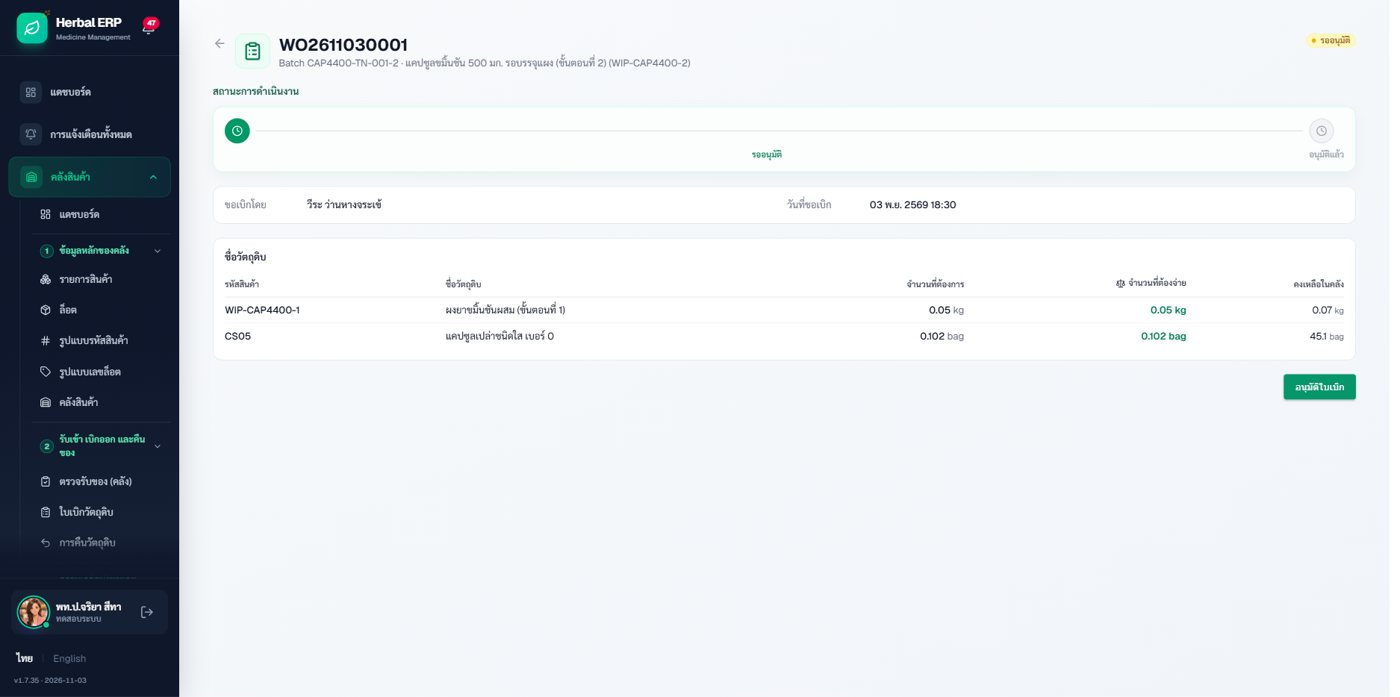
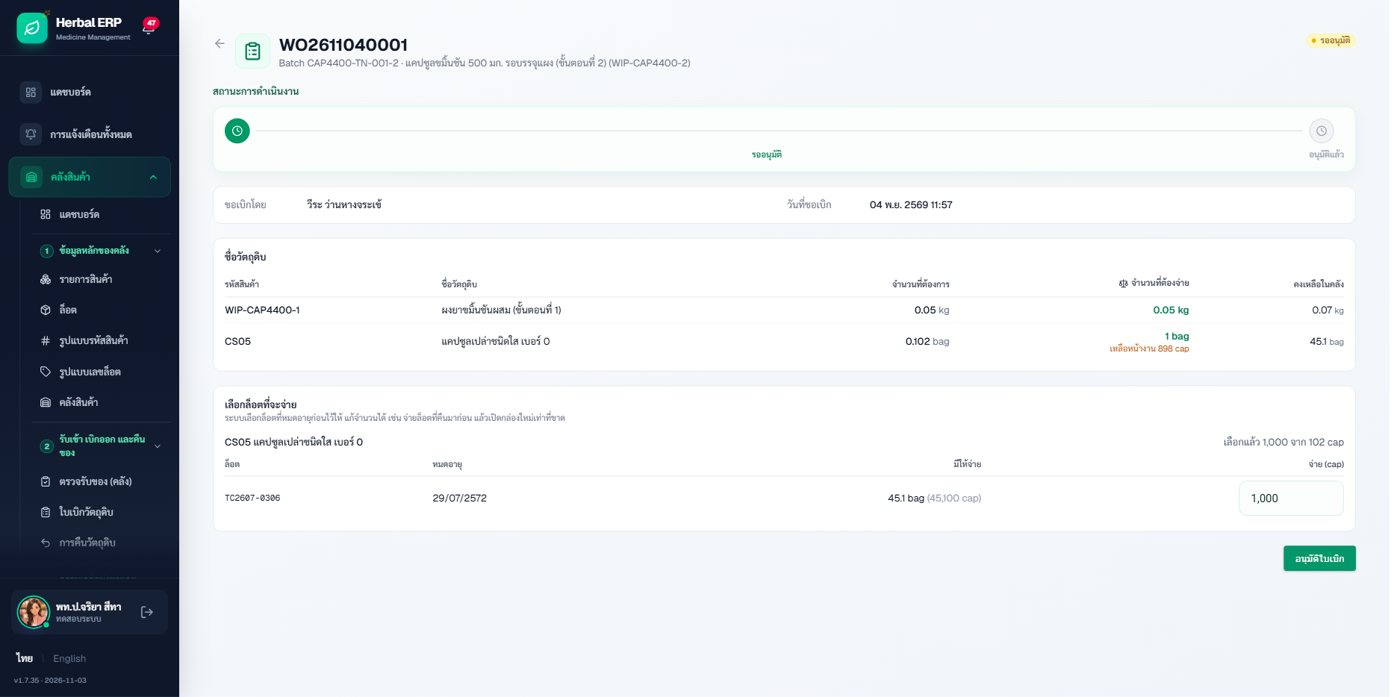
อัปเดตระบบบันทึกผล 2026-11-04 12:02

diff --git a/cases.js b/cases.js
@@ -1,6 +1,6 @@
 // สร้างจาก tools/build_web_app.py ห้ามแก้ไฟล์นี้โดยตรง
 window.SA_DATA = {
-"built": "2026-11-03 18:32",
+"built": "2026-11-04 12:01",
 "build": "93474c553c3f",
 "source": "data/cases-renu.json",
 "title": "ทดสอบระบบ Herbal ERP",
@@ -1048,13 +1048,30 @@ window.SA_DATA = {
 "เปิด คลังสินค้า › รายการเคลื่อนไหว แท็บ \"เบิกออก\" ค้นเลขใบสั่งผลิต ดูล็อตและจำนวนที่ตัด"
 ],
 "data": "ล็อตที่คืนมา (จ่ายทั้งหมดที่มี) + ล็อตใหม่ (จ่ายเท่าที่ขาด) = จำนวนในใบเบิก",
-"sample": [],
+"sample": [
+[
+"ใบเบิก",
+"ใบเบิก BOM ของ CAP4400-TN-001-2 สถานะ \"รออนุมัติ\""
+],
+[
+"เลือกล็อตที่จะจ่าย แถวล็อตที่คืนมา",
+"ใส่ในช่อง \"จ่าย (cap)\" เต็มจำนวนในคอลัมน์ \"มีให้จ่าย\" ของล็อตนั้น"
+],
+[
+"เลือกล็อตที่จะจ่าย แถวล็อตใหม่",
+"ใส่ในช่อง \"จ่าย (cap)\" เท่าที่ยังขาด จนตัวเลข \"เลือกแล้ว … จาก …\" ด้านขวาครบ"
+],
+[
+"ลองให้ไม่ครบ",
+"ลดล็อตใหม่ลง 1 แล้วดูปุ่ม \"อนุมัติใบเบิก\" ก่อนแก้กลับ"
+]
+],
 "items": null,
 "jes": [],
 "expect": "ระบบเลือกล็อตที่หมดอายุก่อนไว้ให้ พร้อมข้อความ \"ระบบเลือกล็อตที่หมดอายุก่อนไว้ให้ แก้จำนวนได้ เช่น จ่ายล็อตที่คืนมาก่อน แล้วเปิดกล่องใหม่เท่าที่ขาด\" · รายการมีเฉพาะล็อตที่ QC ปล่อยแล้วและยังไม่หมดอายุ ล็อตที่ไม่มีวันหมดอายุอยู่ท้ายสุด · รวมไม่ครบ ขึ้น \"จำนวนที่เลือกยังไม่ครบตามใบเบิก\" และกด \"อนุมัติใบเบิก\" ไม่ได้ · อนุมัติแล้วขึ้น \"อนุมัติใบเบิกสำเร็จ\" หรือ \"อนุมัติและปล่อยของแล้ว\" · รายการเบิกออกตัดจากล็อตที่เลือก จำนวนตรงกับที่ใส่",
 "note": "ใช้กับของที่คืนมาจากรุ่นก่อน ให้จ่ายออกไปใช้ก่อนเปิดกล่องใหม่",
-"img": "",
-"shotCap": "",
+"img": "img/INV-09.jpg",
+"shotCap": "ส่วน \"เลือกล็อตที่จะจ่าย\" ของใบเบิกที่รออนุมัติ แคปซูลเปล่า CS05 ต้องใช้ 102 cap ระบบเลือกล็อต TC2607-0306 ที่หมดอายุก่อนไว้ 1 ถุงเต็ม (1,000 cap) แก้จำนวนในช่อง \"จ่าย (cap)\" ได้ (ใบตัวอย่าง ลบออกแล้ว)",
 "core": false,
 "round": "ทดสอบงานเพิ่มของโรงงานอาจาโร (ยังไม่กำหนดวัน)",
 "dept": "คลัง",
@@ -1390,7 +1407,20 @@ window.SA_DATA = {
 "ดูหัวกระดาษ และเทียบค่า IPC ในแบบ QC กับแบบทั้งหมด"
 ],
 "data": "eBMR ของใบสั่งผลิตที่เสร็จสิ้น 1 ใบ พิมพ์ 3 แบบ",
-"sample": [],
+"sample": [
+[
+"ใบสั่งผลิต",
+"WO2611020005 (ตัวอย่างบน UAT Arjaro) หรือใบขั้นตอนที่ 2 จาก PRD-15"
+],
+[
+"แสดง",
+"QC แล้วลอง ฝ่ายผลิต และ ทั้งหมด"
+],
+[
+"พิมพ์ eBMR",
+"เลือก QC แล้วบันทึกเป็น PDF ตั้งชื่อไฟล์ eBMR-QC-ชุด N"
+]
+],
 "items": null,
 "jes": [],
 "expect": "แบบ \"QC\" มีเฉพาะผลตรวจระหว่างผลิต (IPC) และผล QC ไม่มีส่วนของฝ่ายผลิต · แบบ \"ฝ่ายผลิต\" ไม่มีส่วนของ QC · แบบ \"ทั้งหมด\" มีครบทุกส่วน · ค่าในแต่ละแบบตรงกัน · ตาราง IPC แสดง \"ผ่าน\" หรือ \"ไม่ผ่าน\" · หัวกระดาษเป็นชื่อบริษัทจากหน้าการตั้งค่า · ไฟล์ PDF ไม่มีหน้าว่าง",
@@ -2199,7 +2229,24 @@ window.SA_DATA = {
 "เปิดใบขั้นตอนที่ 2 และ 3 แท็บ \"eBMR\" ดูวัตถุดิบที่ใช้และเลขล็อต"
 ],
 "data": "ผงยาผสม CAP4400-TN-001-1 → แคปซูล CAP4400-TN-001-2 → ยาสำเร็จรูป CAP4400-TN-001-3",
-"sample": [],
+"sample": [
+[
+"ใบรับของขั้นตอนที่ 1",
+"ผงยาผสม ล็อต CAP4400-TN-001-1 จำนวน 2.5 กก."
+],
+[
+"ผล QC ขั้นตอนที่ 1",
+"ผ่าน แล้วปล่อยใช้งานและปล่อยเข้าคลัง"
+],
+[
+"ใบเบิกขั้นตอนที่ 2",
+"ผงยาผสม ล็อต CAP4400-TN-001-1"
+],
+[
+"ล็อตต่อกันทั้งรุ่น",
+"CAP4400-TN-001-1 ผงยาผสม → CAP4400-TN-001-2 แคปซูล → CAP4400-TN-001-3 ยาสำเร็จรูป"
+]
+],
 "items": null,
 "jes": [],
 "expect": "ปิดงานขั้นตอนที่ 1 แล้วมีใบรับของของใบสั่งผลิต รายการผงยาผสม ล็อต CAP4400-TN-001-1 รอ QC · ก่อน QC ปล่อย ใบเบิกขั้นตอนที่ 2 ขึ้น \"วัตถุดิบไม่พอ — ไม่สามารถอนุมัติได้\" · หลัง QC ปล่อยและคลังปล่อยเข้าคลัง ล็อตเป็น \"ปล่อยแล้ว\" และใบเบิกอนุมัติได้ ขึ้น \"อนุมัติใบเบิกสำเร็จ\" · จบขั้นตอนที่ 3 ได้ยาสำเร็จรูปล็อต CAP4400-TN-001-3 \"ปล่อยแล้ว\" · eBMR ขั้นตอนที่ 2 แสดงผงยาผสมจากล็อต -1 และ eBMR ขั้นตอนที่ 3 แสดงแคปซูลจากล็อต -2 ย้อนจากยาสำเร็จรูปถึงวัตถุดิบได้",
@@ -2232,7 +2279,20 @@ window.SA_DATA = {
 "ดูสถานะใบเบิกและ \"อนุมัติโดย\" แล้วกลับไปดูการ์ด \"ใบเบิกวัตถุดิบ\" ในใบสั่งผลิต"
 ],
 "data": "ใบเบิกของใบสั่งผลิต CAP4400-TN-001-1 · คนที่ 1 มีชื่อในใบ · คนที่ 2 ไม่มีชื่อในใบ",
-"sample": [],
+"sample": [
+[
+"ใบเบิก",
+"ใบเบิก BOM ของ CAP4400-TN-001-1 สถานะ \"รออนุมัติ\""
+],
+[
+"คนที่ 2 (ไม่มีชื่อในใบ)",
+"เปิดใบเบิกแล้วดูว่าไม่มีปุ่ม \"อนุมัติใบเบิก\""
+],
+[
+"คนที่ 1 (มีชื่อในใบ)",
+"ตรวจ \"จำนวนที่ต้องจ่าย\" กับ \"คงเหลือในคลัง\" แล้วกด \"อนุมัติใบเบิก\""
+]
+],
 "items": null,
 "jes": [],
 "expect": "คนที่ 2 ไม่เห็นปุ่ม \"อนุมัติใบเบิก\" · คนที่ 1 เห็นปุ่มและอนุมัติได้ ขึ้น \"อนุมัติใบเบิกสำเร็จ\" สถานะ \"อนุมัติแล้ว\" และ \"อนุมัติโดย\" เป็นชื่อคนที่ 1 · การ์ด \"ใบเบิกวัตถุดิบ\" ในใบสั่งผลิตไม่ขึ้น \"รอคลังอนุมัติ\" แล้ว · ถ้าคนขอเบิกเปิดใบของตัวเอง ขึ้น \"คุณเป็นผู้ขอเบิกใบนี้ — ต้องให้ผู้มีสิทธิ์คนอื่นอนุมัติ\" · ฝ่ายคลังยังอนุมัติใบเบิกได้เหมือนเดิม",
@@ -2277,7 +2337,7 @@ window.SA_DATA = {
 ],
 [
 "หน่วย",
-"กรัม"
+"g (กรัม)"
 ],
 [
 "สาเหตุ *",
@@ -4519,7 +4579,20 @@ window.SA_DATA = {
 "เปิด การผลิต › ใบสั่งผลิต ดูว่าปุ่มสร้างใบสั่งผลิตใหม่กดได้ (ไม่ต้องบันทึก)"
 ],
 "data": "บัญชีกลุ่ม \"ทดสอบระบบ\"",
-"sample": [],
+"sample": [
+[
+"ช่องที่ลองแก้",
+"หน้าตั้งค่าทั่วไป ช่อง \"โทรศัพท์\" ลองพิมพ์เลข 9 ต่อท้าย"
+],
+[
+"หน้าอื่นที่ลอง",
+"การตั้งค่า › ผู้ใช้งาน กดเพิ่มผู้ใช้ใหม่ แล้วกดบันทึก"
+],
+[
+"ปุ่มที่ต้องกดได้",
+"การผลิต › ใบสั่งผลิต ปุ่ม \"ใบสั่งผลิตใหม่\" (เปิดดูแล้วกดยกเลิก)"
+]
+],
 "items": null,
 "jes": [],
 "expect": "เห็นเมนูครบทุกหมวดรวมทั้งการตั้งค่า · หน้าการตั้งค่ามีแถบแจ้ง \"กลุ่มผู้ใช้งาน “ทดสอบระบบ” เปิดดูการตั้งค่าได้ แต่บันทึกหรือแก้ไขไม่ได้\" · ช่องกรอกเป็นสีเทา หรือกดบันทึกแล้วระบบไม่รับ ค่าเดิมไม่เปลี่ยน · เพิ่มหรือแก้ผู้ใช้งานและกลุ่มผู้ใช้งานไม่ได้ · หน้าระบบงานอื่น เช่น ใบสั่งผลิต ใช้งานได้ตามปกติ",
